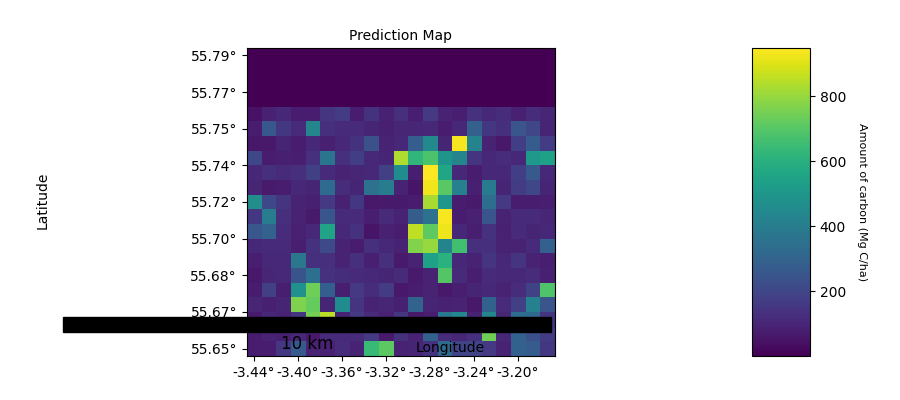
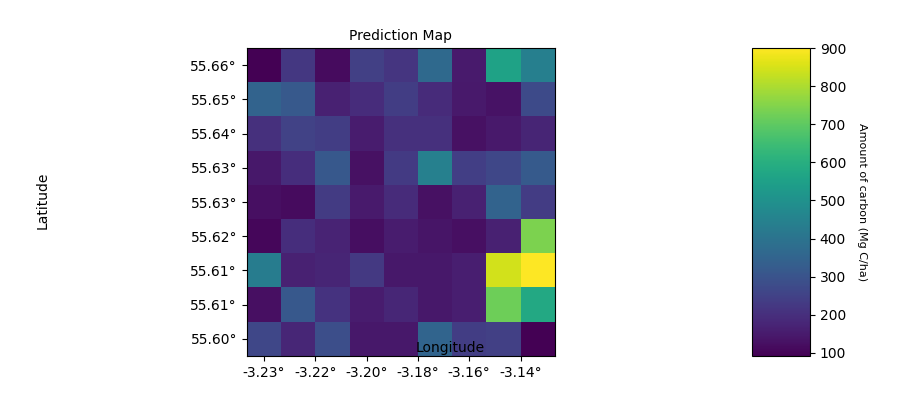
David fixed map & measure button, also scale bar's gone

diff --git a/workspace/lib/goomap.dart b/workspace/lib/goomap.dart
@@ -95,8 +95,6 @@ class _GooMapState extends State<GooMap> {
     return -1;
   }
 
-
-
   Future<Image> sendCoords(LatLng top_l, LatLng btm_r) async {
     //final String apiUrl = "https://reqres.in/api/users";
 
@@ -114,11 +112,11 @@ class _GooMapState extends State<GooMap> {
     print(response.statusCode);
     print('----------------');
     if (response.statusCode == 200) {
-      final String responseString = response.body;
-      print(' ------------- ');
-      print(' RESPONSE BODY: ');
-      print(responseString);
-      print(' ------------- ');
+      // final String responseString = response.body;
+      // print(' ------------- ');
+      // print(' RESPONSE BODY: ');
+      // print(responseString);
+      // print(' ------------- ');
       var carbonPlot = await Image.memory(response.bodyBytes);
       return carbonPlot;
       // return coordsFromJson(responseString);
@@ -259,7 +257,7 @@ class _GooMapState extends State<GooMap> {
   }
 
   // (Lat, Lng) works as (y, x)
-  Tuple2 approximateRectangle(List<LatLng> shape) {
+  Tuple2<LatLng, LatLng> approximateRectangle(List<LatLng> shape) {
     double maxLat = returnMaxLat(shape);
     double minLng = returnMinLng(shape);
 
@@ -308,14 +306,28 @@ class _GooMapState extends State<GooMap> {
         .reduce((value, element) => (value < element) ? value : element);
   }
 
+  void test(Tuple2<LatLng, LatLng> rectangle) async {
+    // UserModel _aUser;
+    print(' ----- IN void test() -----');
+    // final UserModel aUser = await createUser("Kob", "stu");
+
+    final Image carbonPlot = await sendCoords(rectangle.item1, rectangle.item2);
+    // final Coords aCoord =
+    //     await sendCoords(rec.item1, rec.item2);
+    Navigator.push(
+        context,
+        MaterialPageRoute(
+            builder: (context) => ResultPage(_locationData, carbonPlot)));
+  }
+
   @override
   Widget build(BuildContext context) {
     return Scaffold(
       body: Stack(children: [
         GoogleMap(
           initialCameraPosition: CameraPosition(
-            target: LatLng(_locationData.latitude, _locationData.longitude),
-            zoom: 16,
+            target: LatLng(55.6531, 3.1936),
+            zoom: 5,
           ),
           mapType: MapType.hybrid,
           onMapCreated: _onMapCreated,
@@ -331,29 +343,6 @@ class _GooMapState extends State<GooMap> {
 
                 bool isSimple = isSimpleTuple.item1;
                 int pos = isSimpleTuple.item2;
-
-                if (polygonLatLngs.length > 3) {
-                  Tuple2<LatLng, LatLng> rec =
-                      approximateRectangle(polygonLatLngs);
-
-                  void test() async {
-                    // UserModel _aUser;
-                    print(' ----- IN void test() -----');
-                    // final UserModel aUser = await createUser("Kob", "stu");
-
-                    final Image carbonPlot =
-                        await sendCoords(rec.item1, rec.item2);
-                    // final Coords aCoord =
-                    //     await sendCoords(rec.item1, rec.item2);
-                    Navigator.push(
-                        context,
-                        MaterialPageRoute(
-                            builder: (context) =>
-                                ResultPage(_locationData, carbonPlot)));
-                  }
-
-                  test();
-                }
 
                 // This is the position of the start of the line segment which
                 // intersects with the last line segment.
@@ -487,11 +476,7 @@ class _GooMapState extends State<GooMap> {
                   if (polygonLatLngs.length >= 4) {
                     Tuple2<LatLng, LatLng> rec =
                         approximateRectangle(polygonLatLngs);
-                    // Navigator.push(
-                    //     context,
-                    //     MaterialPageRoute(
-                    //         builder: (context) =>
-                    //             ResultPage(_locationData, AssetImage())));
+                    test(rec);
                   }
                 },
                 child: Container(

diff --git a/server/carbon_calc/ML/Carbon-Trading-Verfication/scotland_carbon/src/carbon_maps.py b/server/carbon_calc/ML/Carbon-Trading-Verfication/scotland_carbon/src/carbon_maps.py
@@ -97,13 +97,13 @@ def plot_graph(result_data, title, map_style, out_file_name, x_coord_l, x_coord_
     ax1.yaxis.set_major_formatter(plt.FuncFormatter(y_format_func))
 
     # Set scalebar for left and right subplot
-    scalebar1 = AnchoredSizeBar(ax1.transData,
-                               33.3, '10 km', 'lower right', 
-                               pad=0.1,
-                               color='black',
-                               frameon=False,
-                               size_vertical=1,
-                               fontproperties=fontprops)
+    # scalebar1 = AnchoredSizeBar(ax1.transData,
+    #                            33.3, '10 km', 'lower right', 
+    #                            pad=0.1,
+    #                            color='black',
+    #                            frameon=False,
+    #                            size_vertical=1,
+    #                            fontproperties=fontprops)
     
     # scalebar2 = AnchoredSizeBar(ax2.transData,
     #                            33.3, '10 km', 'lower right', 
@@ -114,7 +114,8 @@ def plot_graph(result_data, title, map_style, out_file_name, x_coord_l, x_coord_
     #                            fontproperties=fontprops)
 
     # Add scale bar to subplots
-    ax1.add_artist(scalebar1)
+    # ax1.add_artist(scalebar1)
+
     #ax2.add_artist(scalebar2)
     # Set title to subplots
     ax1.set_title('Prediction Map', size=10)

diff --git a/server/flask_server/flaskr/__init__.py b/server/flask_server/flaskr/__init__.py
@@ -5,7 +5,7 @@ from flask import Flask
 #  -- FOR MAC ---
 
 # export FLASK_APP=flaskr
-# export FLASK_ENV=development
+# export FLASK_APP=flaskr
 # flask run
 
 
